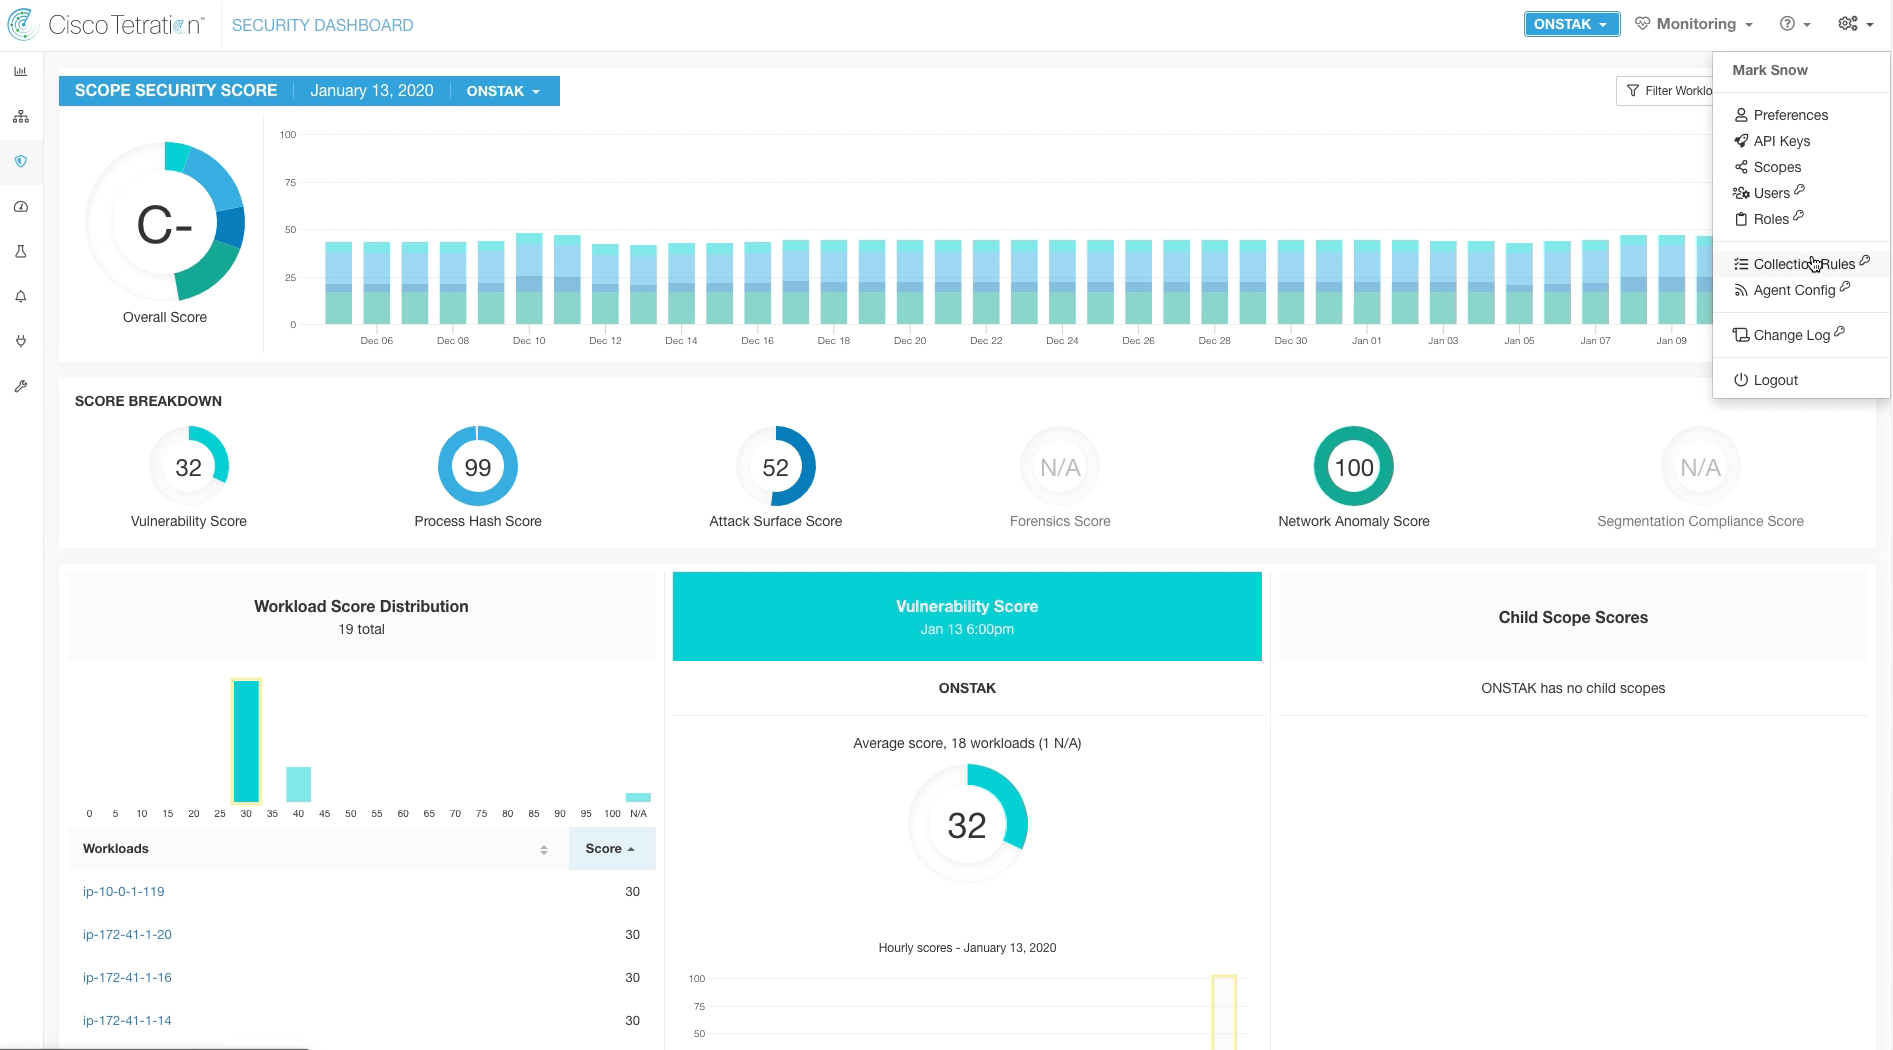
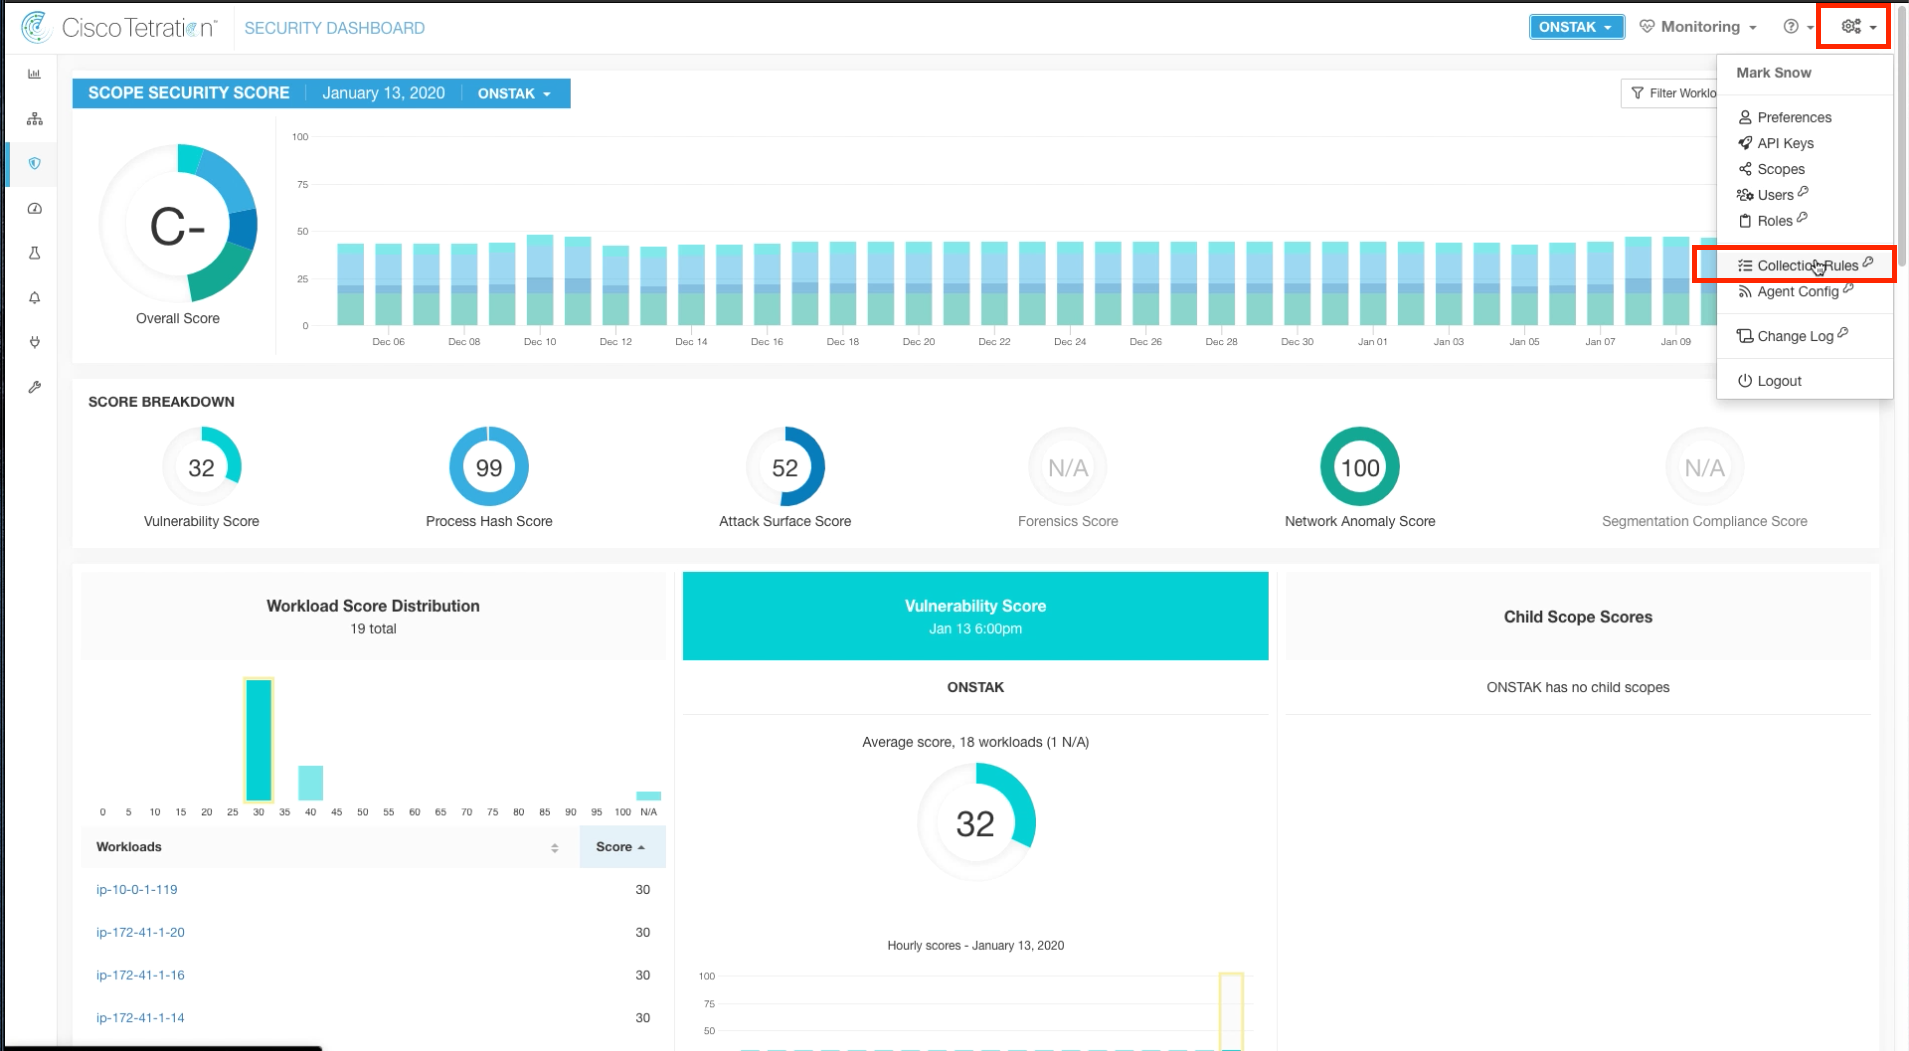
initial module02 images and readme

diff --git a/labguide/module02/README.md b/labguide/module02/README.md
@@ -1,12 +1,37 @@
 # Cisco Tetration - Hands-On Lab
-  
-## Module02
-  
-![Alt Text](https://onstakinc.github.io/cisco-tetration-hol/labguide/module02/images/module02_000.png)  
-  
-![Alt Text](https://onstakinc.github.io/cisco-tetration-hol/labguide/module02/images/module02_001.png)  
-  
-![Alt Text](https://onstakinc.github.io/cisco-tetration-hol/labguide/module02/images/module02_002.png)  
-  
-  
+
+## Module02 - Collection Rules
+
+In this module we will configure Collection Rules.  Collection Rules govern what endpoints will be considered for inclusion in inventory.  Typically this should be any internal IP address space of an organization.  It may also make sense to configure public IP address space that is used by an organization,  such as DMZ or public cloud address space.  
+
+Perform the following tasks to configure Collection Rules.  Click here to view a video of the tasks being performed:
+<p><a href="https://cisco-tetration-hol-content.s3.amazonaws.com/videos/01_collection_rules.mp4" title="Collection Rules Title">Collection Rules Video</a></p>  
+
+1. Click on the gear icon in the upper right hand corner and select Collection Rules.   
+
+<a href="https://onstakinc.github.io/cisco-tetration-hol/labguide/module02/images/module02_000.png"><img src="https://onstakinc.github.io/cisco-tetration-hol/labguide/module02/images/module02_000.png" style="width:100%;height:100%;"></a>  
+
+2. Click on Edit.
+
+<a href="https://onstakinc.github.io/cisco-tetration-hol/labguide/module02/images/module02_001.png"><img src="https://onstakinc.github.io/cisco-tetration-hol/labguide/module02/images/module02_001.png" style="width:100%;height:100%;"></a>
+
+3. Add rule.   
+
+<a href="https://onstakinc.github.io/cisco-tetration-hol/labguide/module02/images/module02_002.png"><img src="https://onstakinc.github.io/cisco-tetration-hol/labguide/module02/images/module02_002.png" style="width:100%;height:100%;"></a>  
+
+<a href="https://onstakinc.github.io/cisco-tetration-hol/labguide/module02/images/module02_003.png"><img src="https://onstakinc.github.io/cisco-tetration-hol/labguide/module02/images/module02_003.png" style="width:100%;height:100%;"></a>  
+
+<a href="https://onstakinc.github.io/cisco-tetration-hol/labguide/module02/images/module02_004.png"><img src="https://onstakinc.github.io/cisco-tetration-hol/labguide/module02/images/module02_004.png" style="width:100%;height:100%;"></a>  
+
+<a href="https://onstakinc.github.io/cisco-tetration-hol/labguide/module02/images/module02_005.png"><img src="https://onstakinc.github.io/cisco-tetration-hol/labguide/module02/images/module02_005.png" style="width:100%;height:100%;"></a>  
+
+<a href="https://onstakinc.github.io/cisco-tetration-hol/labguide/module02/images/module02_006.png"><img src="https://onstakinc.github.io/cisco-tetration-hol/labguide/module02/images/module02_006.png" style="width:100%;height:100%;"></a>  
+
+<a href="https://onstakinc.github.io/cisco-tetration-hol/labguide/module02/images/module02_007.png"><img src="https://onstakinc.github.io/cisco-tetration-hol/labguide/module02/images/module02_007.png" style="width:100%;height:100%;"></a>  
+
+<a href="https://onstakinc.github.io/cisco-tetration-hol/labguide/module02/images/module02_008.png"><img src="https://onstakinc.github.io/cisco-tetration-hol/labguide/module02/images/module02_008.png" style="width:100%;height:100%;"></a>  
+
+<a href="https://onstakinc.github.io/cisco-tetration-hol/labguide/module02/images/module02_009.png"><img src="https://onstakinc.github.io/cisco-tetration-hol/labguide/module02/images/module02_009.png" style="width:100%;height:100%;"></a>  
+
+
 [Return to Table of Contents](https://onstakinc.github.io/cisco-tetration-hol/labguide/)

diff --git a/labguide/module02/README.bak.md b/labguide/module02/README.bak.md
@@ -9,4 +9,4 @@
 ![Alt Text](https://onstakinc.github.io/cisco-tetration-hol/labguide/module02/images/module02_002.png)  
   
   
-![Return to Table of Contents](https://onstakinc.github.io/cisco-tetration-hol/labguide/)
+[Return to Table of Contents](https://onstakinc.github.io/cisco-tetration-hol/labguide/)
